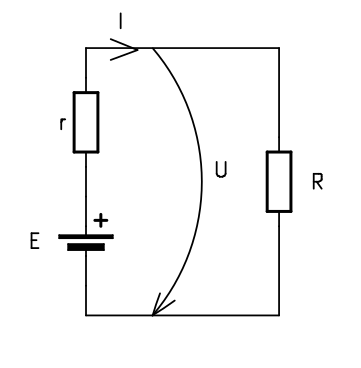
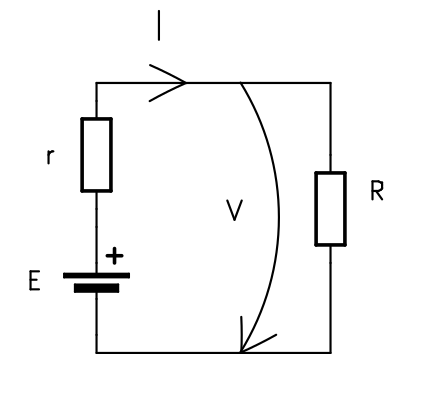
update lab01

diff --git a/docs/lab/01.md b/docs/lab/01.md
@@ -65,11 +65,11 @@ The intensity(I) of the electric current passing through a resistor is directly 
 </div>
 
 $$
-I = \frac{U}{R};
+I = \frac{V}{R};
 $$
 
 I = intensity of electric current(A)   
-U = electrical voltage(V)   
+V = electrical voltage(V)   
 R = circuit's resistance(&ohm;)
 
 ### Kirchhoff's First Law
@@ -94,7 +94,7 @@ $$
 Around any closed loop in a circuit, the directed sum of potential differences across components is zero.
 
 $$
-\sum_{k=1}^{n} U_k = 0
+\sum_{k=1}^{n} V_k = 0
 $$
 
 <div align="center">
@@ -102,7 +102,7 @@ $$
 </div>
 
 $$
--U_A - U_B - U_C + U_D + U_E = 0
+-V_A - V_B - V_C + V_D + V_E = 0
 $$
 
 ### Voltage divider
@@ -309,8 +309,8 @@ Jumper wires are flexible wires with connectors at each end, typically male conn
 Jumper wires
 </div>
 
-:::info
-For a better understanding, please read the chapter 1 *Encyclopedia of Electronic Components*, Volume 1
+:::note
+For a better understanding, please read the chapter 1 of *Encyclopedia of Electronic Components*, Volume 1
 :::
 
 ## Datasheets
@@ -479,7 +479,7 @@ KiCad offers a 3D Viewer to have a preview of how the PCB will look. Click on `V
 3D View
 </div>
 
-:::info
+:::note
 For a better understanding, please read [Getting Started in KiCad](https://docs.kicad.org/7.0/en/getting_started_in_kicad/getting_started_in_kicad.html) tutorial.
 :::
 
